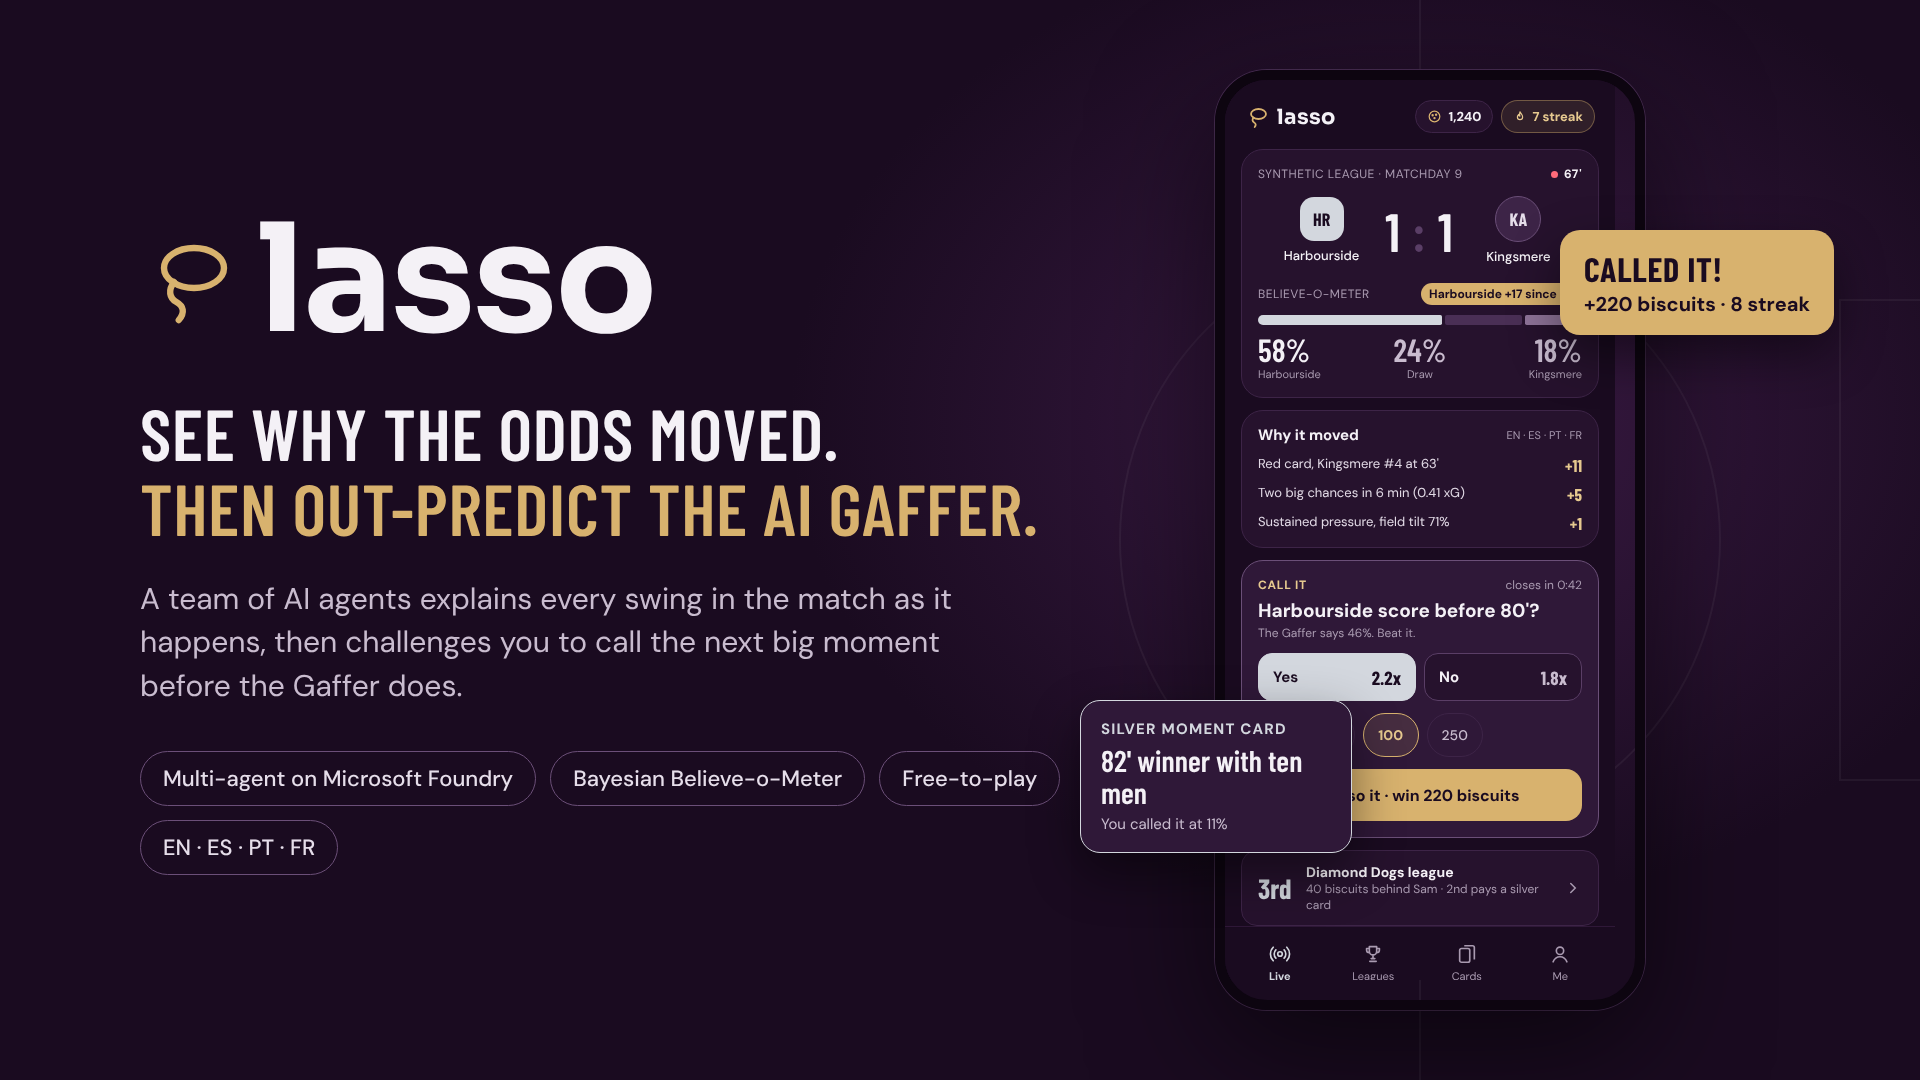
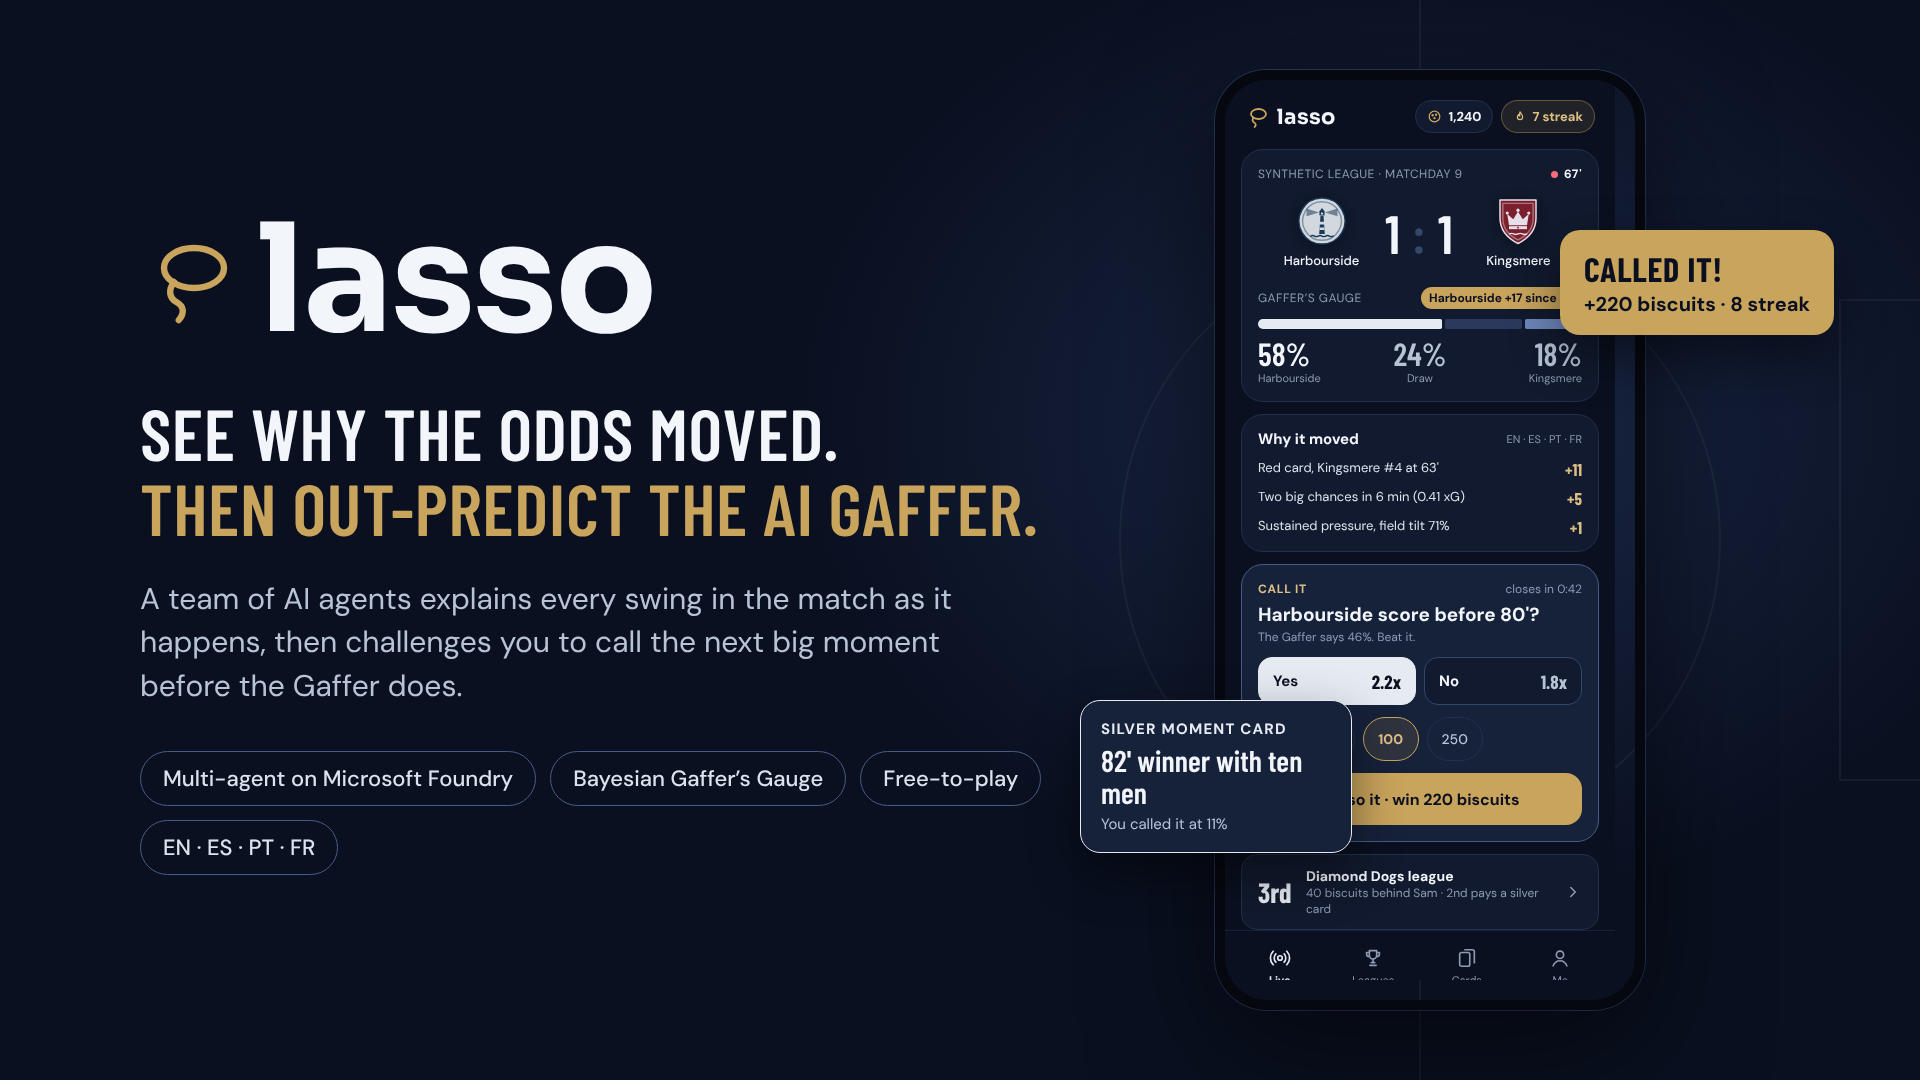
Submission images, README diagram colors: Midnight palette, crests, Gaffer's Gauge
Claude-Session: https://claude.ai/code/session_01VjVdm676emTWmPPf7gxrFH

Changed region(s): [[0.3438, 0.1833, 0.875, 0.9167]]

diff --git a/README.md b/README.md
@@ -60,19 +60,19 @@ flowchart LR
     WPS --> APP["<b>Phone app</b>"]
     WPS --> OVL["<b>Broadcast overlay</b>"]
 
-    classDef svc fill:#26122D,stroke:#6B4F78,color:#F4F1F6
-    classDef star fill:#2F1838,stroke:#D8B26E,stroke-width:2px,color:#F4F1F6
-    classDef data fill:#1A0B20,stroke:#A99AB0,color:#E2DAE6
-    classDef agent fill:#3A2042,stroke:#D3D7DE,color:#F4F1F6
-    classDef client fill:#D3D7DE,stroke:#D3D7DE,color:#1A0B20
+    classDef svc fill:#111A2E,stroke:#475C85,color:#F2F5FA
+    classDef star fill:#16213A,stroke:#C9A45C,stroke-width:2px,color:#F2F5FA
+    classDef data fill:#0A1020,stroke:#8E9AB3,color:#DCE3EE
+    classDef agent fill:#1D2A48,stroke:#E6EBF2,color:#F2F5FA
+    classDef client fill:#E6EBF2,stroke:#E6EBF2,color:#0A1020
     class FEED,ROOM,MCP,GAME,WPS svc
     class GAFFER star
     class EH,COSMOS,FOUNDRY data
     class STATS,GAF,NAR,PER,GM agent
     class CTX data
     class APP,OVL client
-    style API fill:#1A0B2010,stroke:#6B4F78,stroke-dasharray:4 4,color:#A99AB0
-    style DIRECTOR fill:#1A0B2010,stroke:#D8B26E,stroke-dasharray:4 4,color:#A99AB0
+    style API fill:#0A102010,stroke:#475C85,stroke-dasharray:4 4,color:#8E9AB3
+    style DIRECTOR fill:#0A102010,stroke:#C9A45C,stroke-dasharray:4 4,color:#8E9AB3
 ```
 
 ### What happens when a goal goes in
